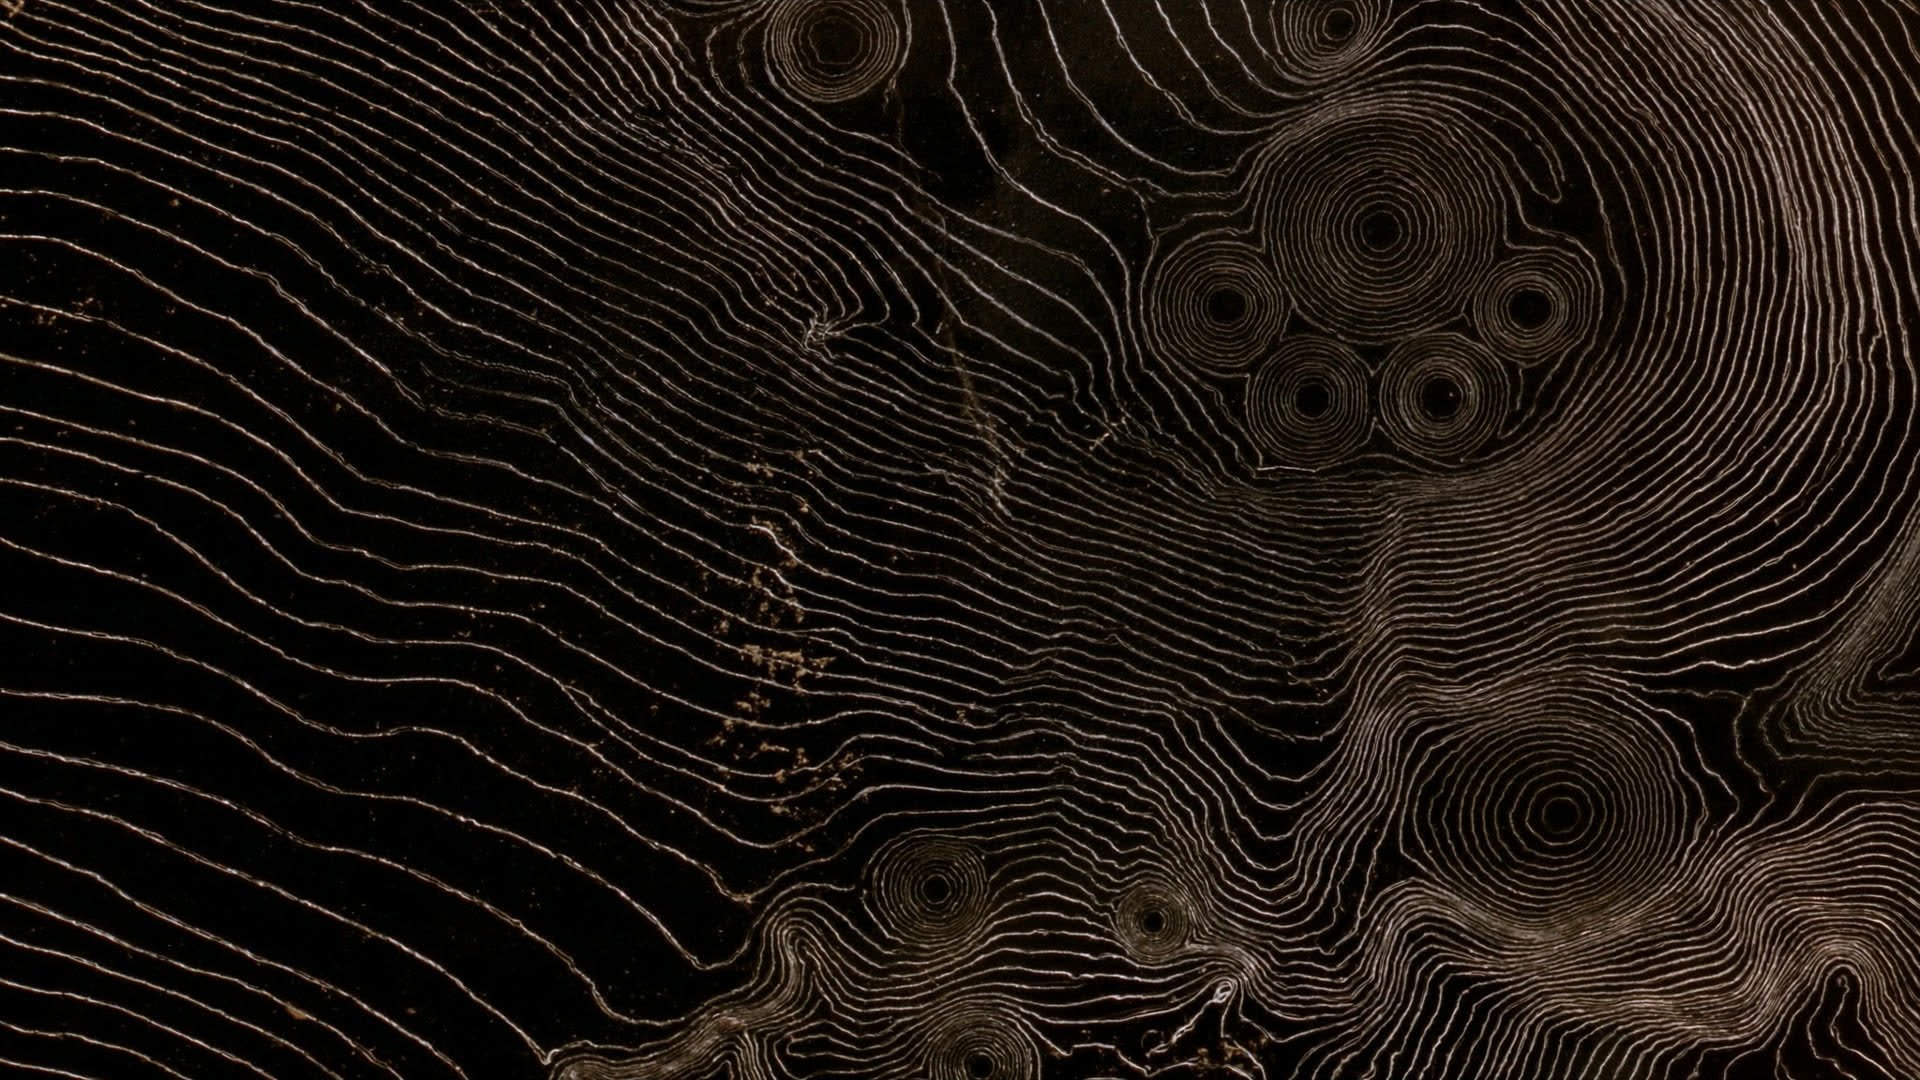
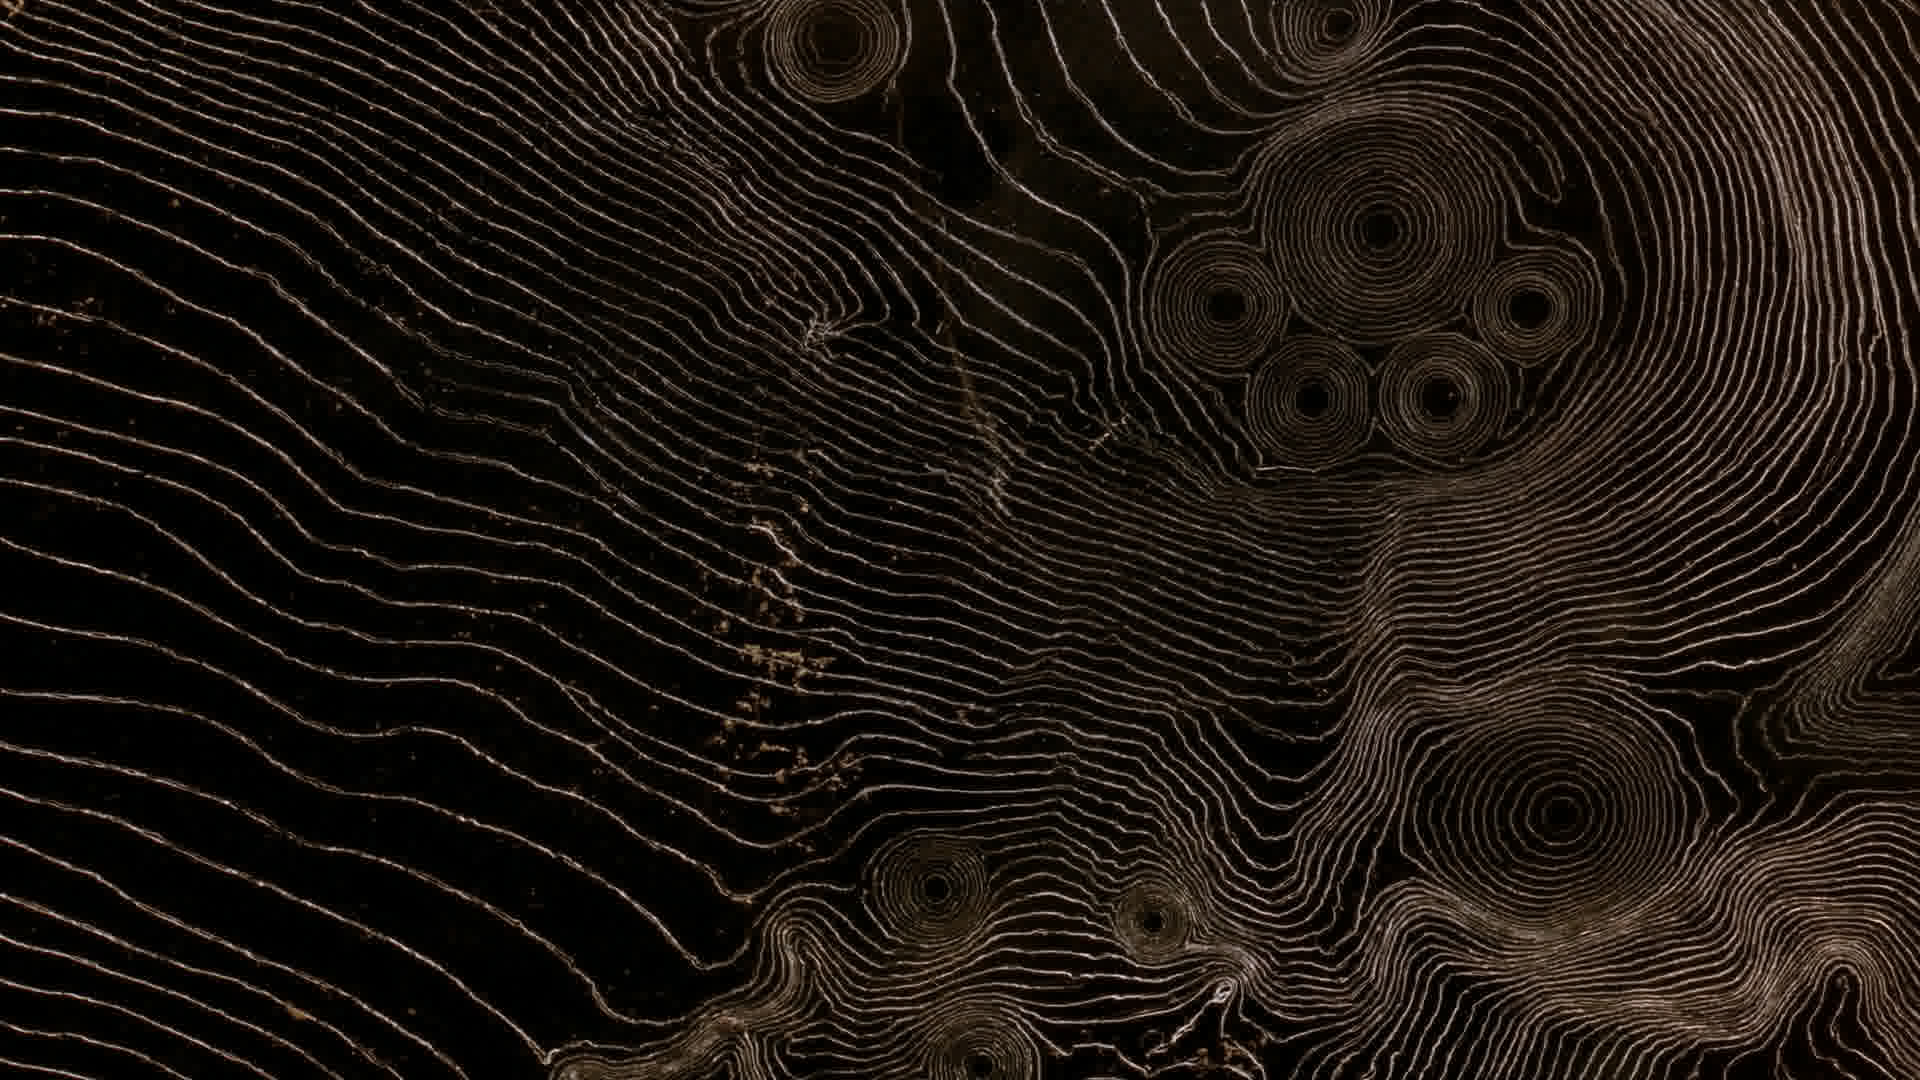
Stop paying full photograph prices for invisible textures
tex-contour.jpg was 356KB and renders at 9% opacity under a multiply
blend behind the fees table. tex-linen and tex-steam do the same job at
16% and 8%. Re-encoded hard, they come to 278KB less between them,
which is more than a quarter of what the hero film costs, for an effect
nobody can consciously see either way. Pixel dimensions are unchanged
so the declared intrinsic sizes still match and nothing shifts.

The logo pill also stops blurring on phones. backdrop-filter: blur(10px)
sat unconditionally on an element inside a fixed header, so the
compositor re-sampled and re-blurred what was behind it on every scroll
frame, permanently, on every phone. A slightly more opaque flat fill
stands in below 560px, the same way this file already substitutes for
blur where the browser does not support it. Desktop keeps the frost.

diff --git a/styles.css b/styles.css
@@ -775,6 +775,21 @@ strong, b {
     clip: rect(0, 0, 0, 0);
     border: 0;
   }
+
+  /* .site-header is position: fixed, so .brand's backdrop-filter above
+     forces the compositor to re-sample and re-blur whatever sits behind
+     the pill on every scroll frame, for as long as the page stays open
+     -- unconditional, at every width, precisely the motion cost a phone
+     GPU feels most and the owner has flagged repeatedly. At the small
+     size this pill renders here, a flat fill reads the same as the 10px
+     blur, so phones trade the blur for a slightly more opaque version of
+     the same fill and skip the per-frame cost entirely. Desktop is
+     unchanged: there the blur is cheap and worth keeping. */
+  .brand {
+    background: rgba(14, 11, 8, .88);
+    -webkit-backdrop-filter: none;
+    backdrop-filter: none;
+  }
 }
 
 .nav {
@@ -2707,11 +2722,10 @@ strong, b {
 }
 
 /* The hot-stone hold interaction: a single photographic backdrop
-   (still-heat.jpg, parallax-cropped per 12A) behind the button and its
-   reveal text, with a scrim so both stay legible over real photography.
-   still-falling.jpg's screen-blended ambient layer
-   (formerly .stone-interaction__ambient) has been removed from the
-   markup entirely; this is one photo, not a two-layer backdrop. */
+   (still-heat.jpg, parallax-cropped per 12A) sits behind the button and
+   its reveal text via .stone-interaction__bg, with a scrim so both stay
+   legible over real photography. This is the only backdrop layer --
+   there is no second image behind it. */
 .stone-interaction {
   position: relative;
   overflow: hidden;
